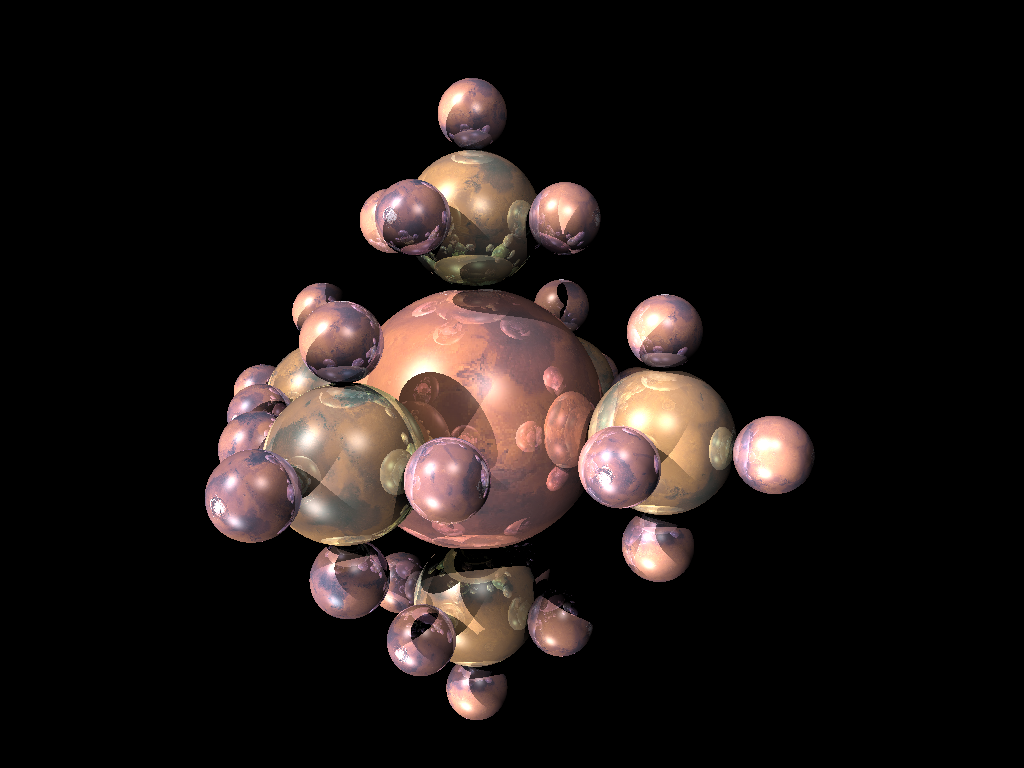
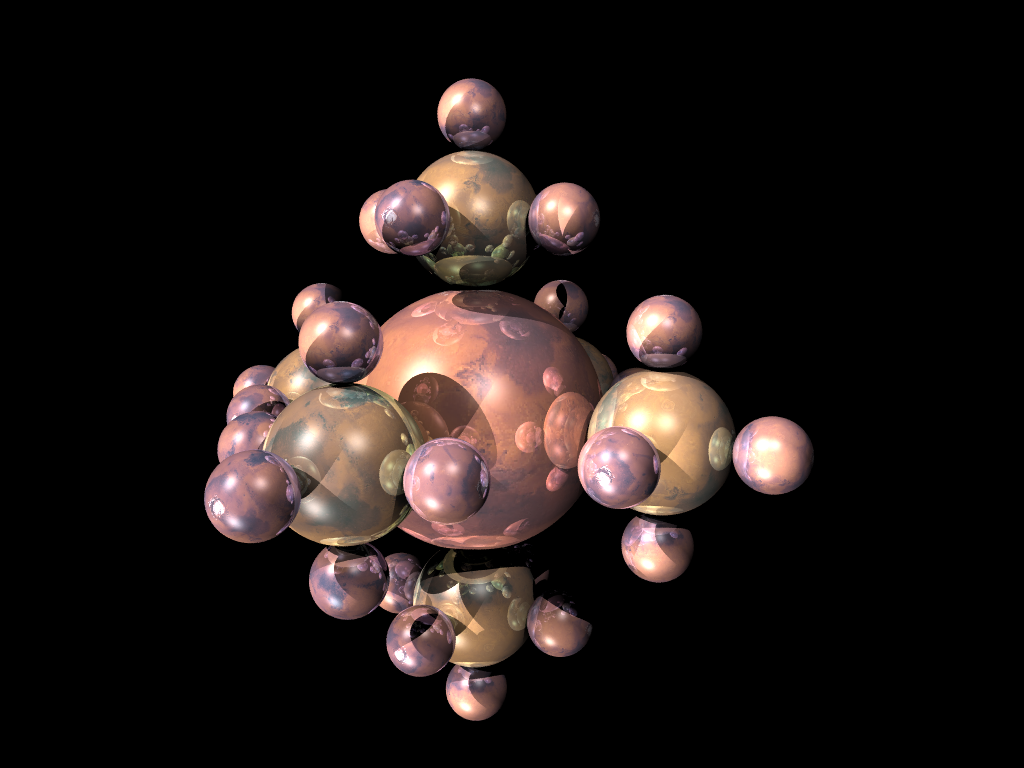
Add stochastic supersampling

diff --git a/src/raytracer.rs b/src/raytracer.rs
@@ -141,23 +141,43 @@ impl RayTracer {
             let row = pixel_index / output_width;
             let col = pixel_index % output_width;
 
-            // Convert the image coordinates to continuous view plane coordinates
-            let y = (self.config.height - 1 - row) as f32 / self.config.height as f32 - 0.5;
-            let x = col as f32 / self.config.width as f32 - 0.5;
+            let mut accumulated_intensity = glm::vec4(0.0, 0.0, 0.0, 0.0);
 
-            // Determine the direction from the camera to the pixel
-            let eye = glm::vec4(0.0, 0.0, 0.0, 1.0);
-            let direction = glm::normalize(glm::vec4(
-                viewplane_width * x,
-                viewplane_height * y,
-                -1.0,
-                0.0,
-            ));
+            for sample in 0..self.config.samples {
+                // Choose an offset between 0-1 for stochastic super sampling,
+                // ensuring that 1 sample goes through the center of the pixel.
+                let random_offset = || {
+                    if sample == self.config.samples - 1 {
+                        0.5f32
+                    } else {
+                        rand::random()
+                    }
+                };
 
-            // Construct a ray from the camera through this pixel, and trace it into the scene
-            let camera_ray = Ray::new(eye, direction);
-            let world_ray = camera_ray.transform(&self.scene.camera.inverse_view_matrix, false);
-            let pixel_color = lights::to_rgb(&self.trace_ray(&world_ray, 0));
+                // Convert the image coordinates to continuous view plane coordinates
+                let y = ((self.config.height - 1 - row) as f32 + random_offset())
+                    / self.config.height as f32
+                    - 0.5;
+                let x = (col as f32 + random_offset()) / self.config.width as f32 - 0.5;
+
+                // Determine the direction from the camera to the pixel
+                let eye = glm::vec4(0.0, 0.0, 0.0, 1.0);
+                let direction = glm::normalize(glm::vec4(
+                    viewplane_width * x,
+                    viewplane_height * y,
+                    -1.0,
+                    0.0,
+                ));
+
+                // Construct a ray from the camera through this pixel, and trace it into the scene
+                let camera_ray = Ray::new(eye, direction);
+                let world_ray = camera_ray.transform(&self.scene.camera.inverse_view_matrix, false);
+
+                accumulated_intensity = accumulated_intensity + self.trace_ray(&world_ray, 0);
+            }
+
+            let average_intensity = accumulated_intensity / self.config.samples as f32;
+            let pixel_color = lights::to_rgb(&average_intensity);
 
             // Increment the progress bar
             progress_bar.inc(1);

diff --git a/src/main.rs b/src/main.rs
@@ -45,6 +45,9 @@ pub struct Config {
     /// Enable parallel processing of pixels
     #[structopt(long)]
     enable_parallelism: bool,
+    /// Number of samples per pixel
+    #[structopt(default_value = "1", long)]
+    samples: u8,
 }
 
 /// Parses the CLI arguments, invokes the raytracer, and saves the output image, propagating errors.

diff --git a/README.md b/README.md
@@ -1,6 +1,6 @@
 # rustracer
 
-![](output/take_forever_recursiveSpheres2.png)
+![](output/take_forever_recursiveSpheres3.png)
 
 Offline rendering of 3D graphics using raytracing, written in Rust, and inspired by [Brown's CS1230](https://cs.brown.edu/courses/csci1230).
 
@@ -15,6 +15,22 @@ cargo build --release
 ```
 
 The binary can then be found at `target/release/rustracer`. Use the `--help` flag to get a full description of the command line interface.
+
+### Example usage
+
+The following command will run a release binary to render a 1024 by 768 image, using shadows, reflections, texture mapping, parallelism, and stochastic supersampling (change the paths to fit your system):
+
+```
+cargo run --release -- --width 1024 --height 768 \
+    --output ./output/take_forever_recursiveSpheres3.png \
+    --textures ~/Desktop/courses/1230/scenefiles \
+    --scene ~/Desktop/courses/1230/scenefiles/test_take_forever/recursiveSpheres3.xml \
+    --enable-shadows \
+    --enable-reflections \
+    --enable-texture \
+    --enable-parallelism \
+    --samples 20
+```
 
 ## Documentation
 
